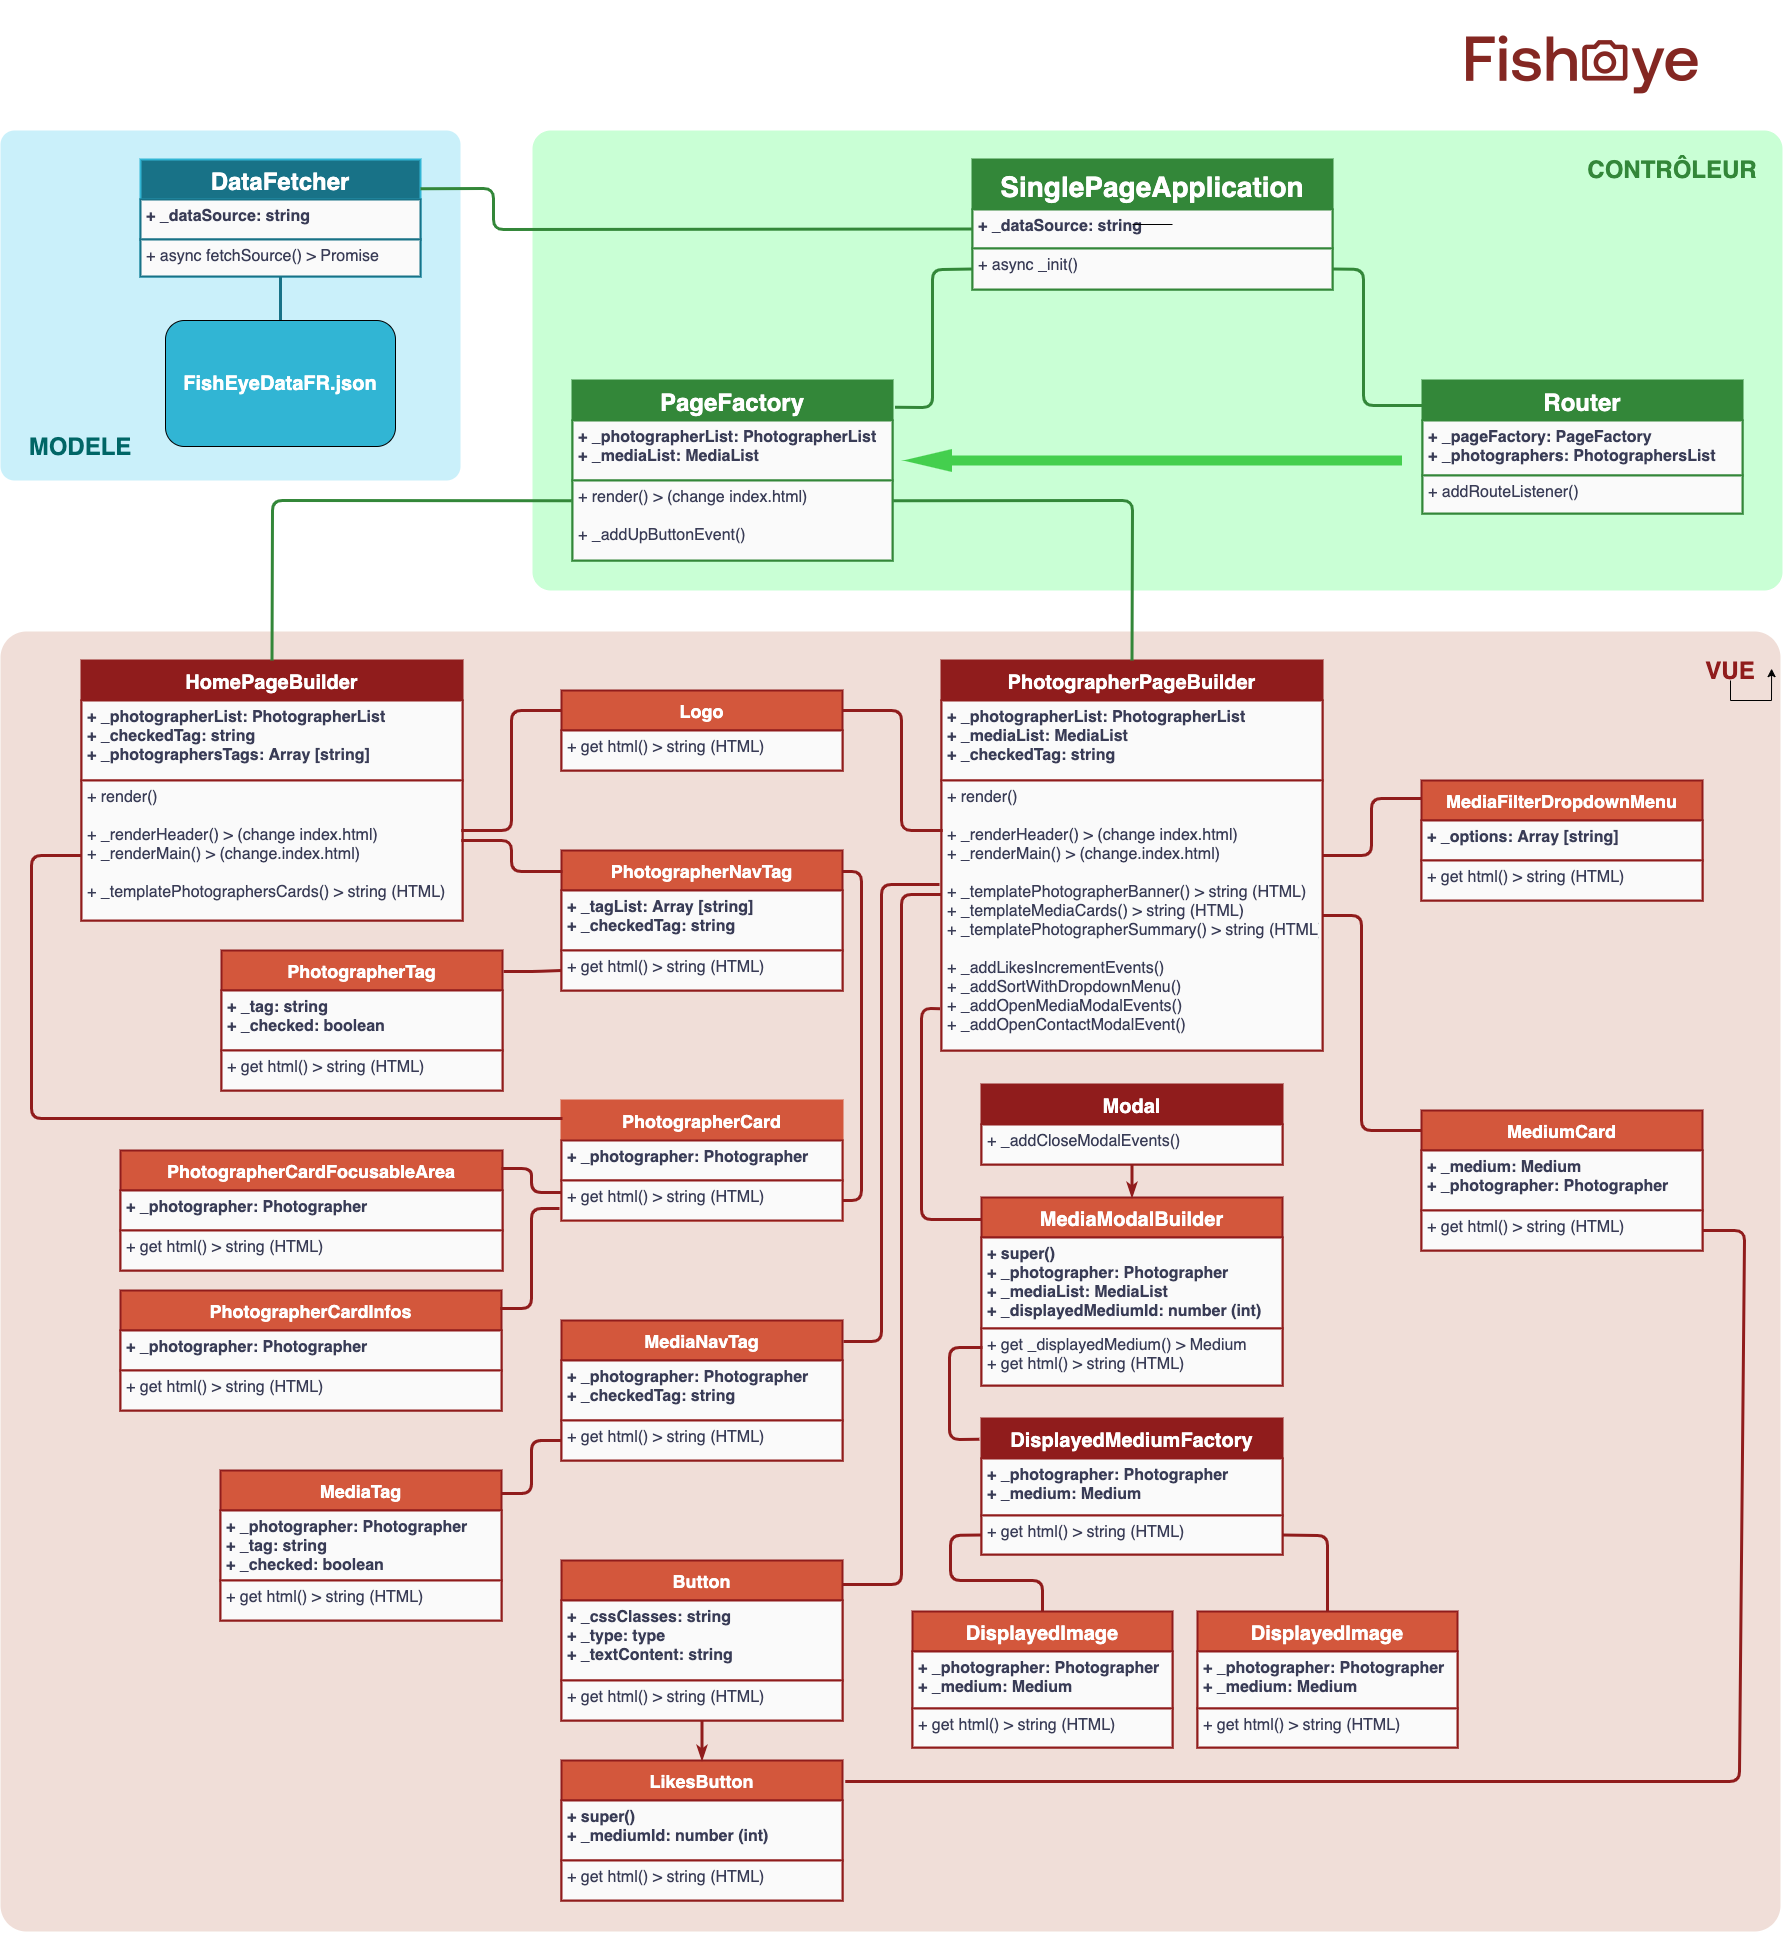
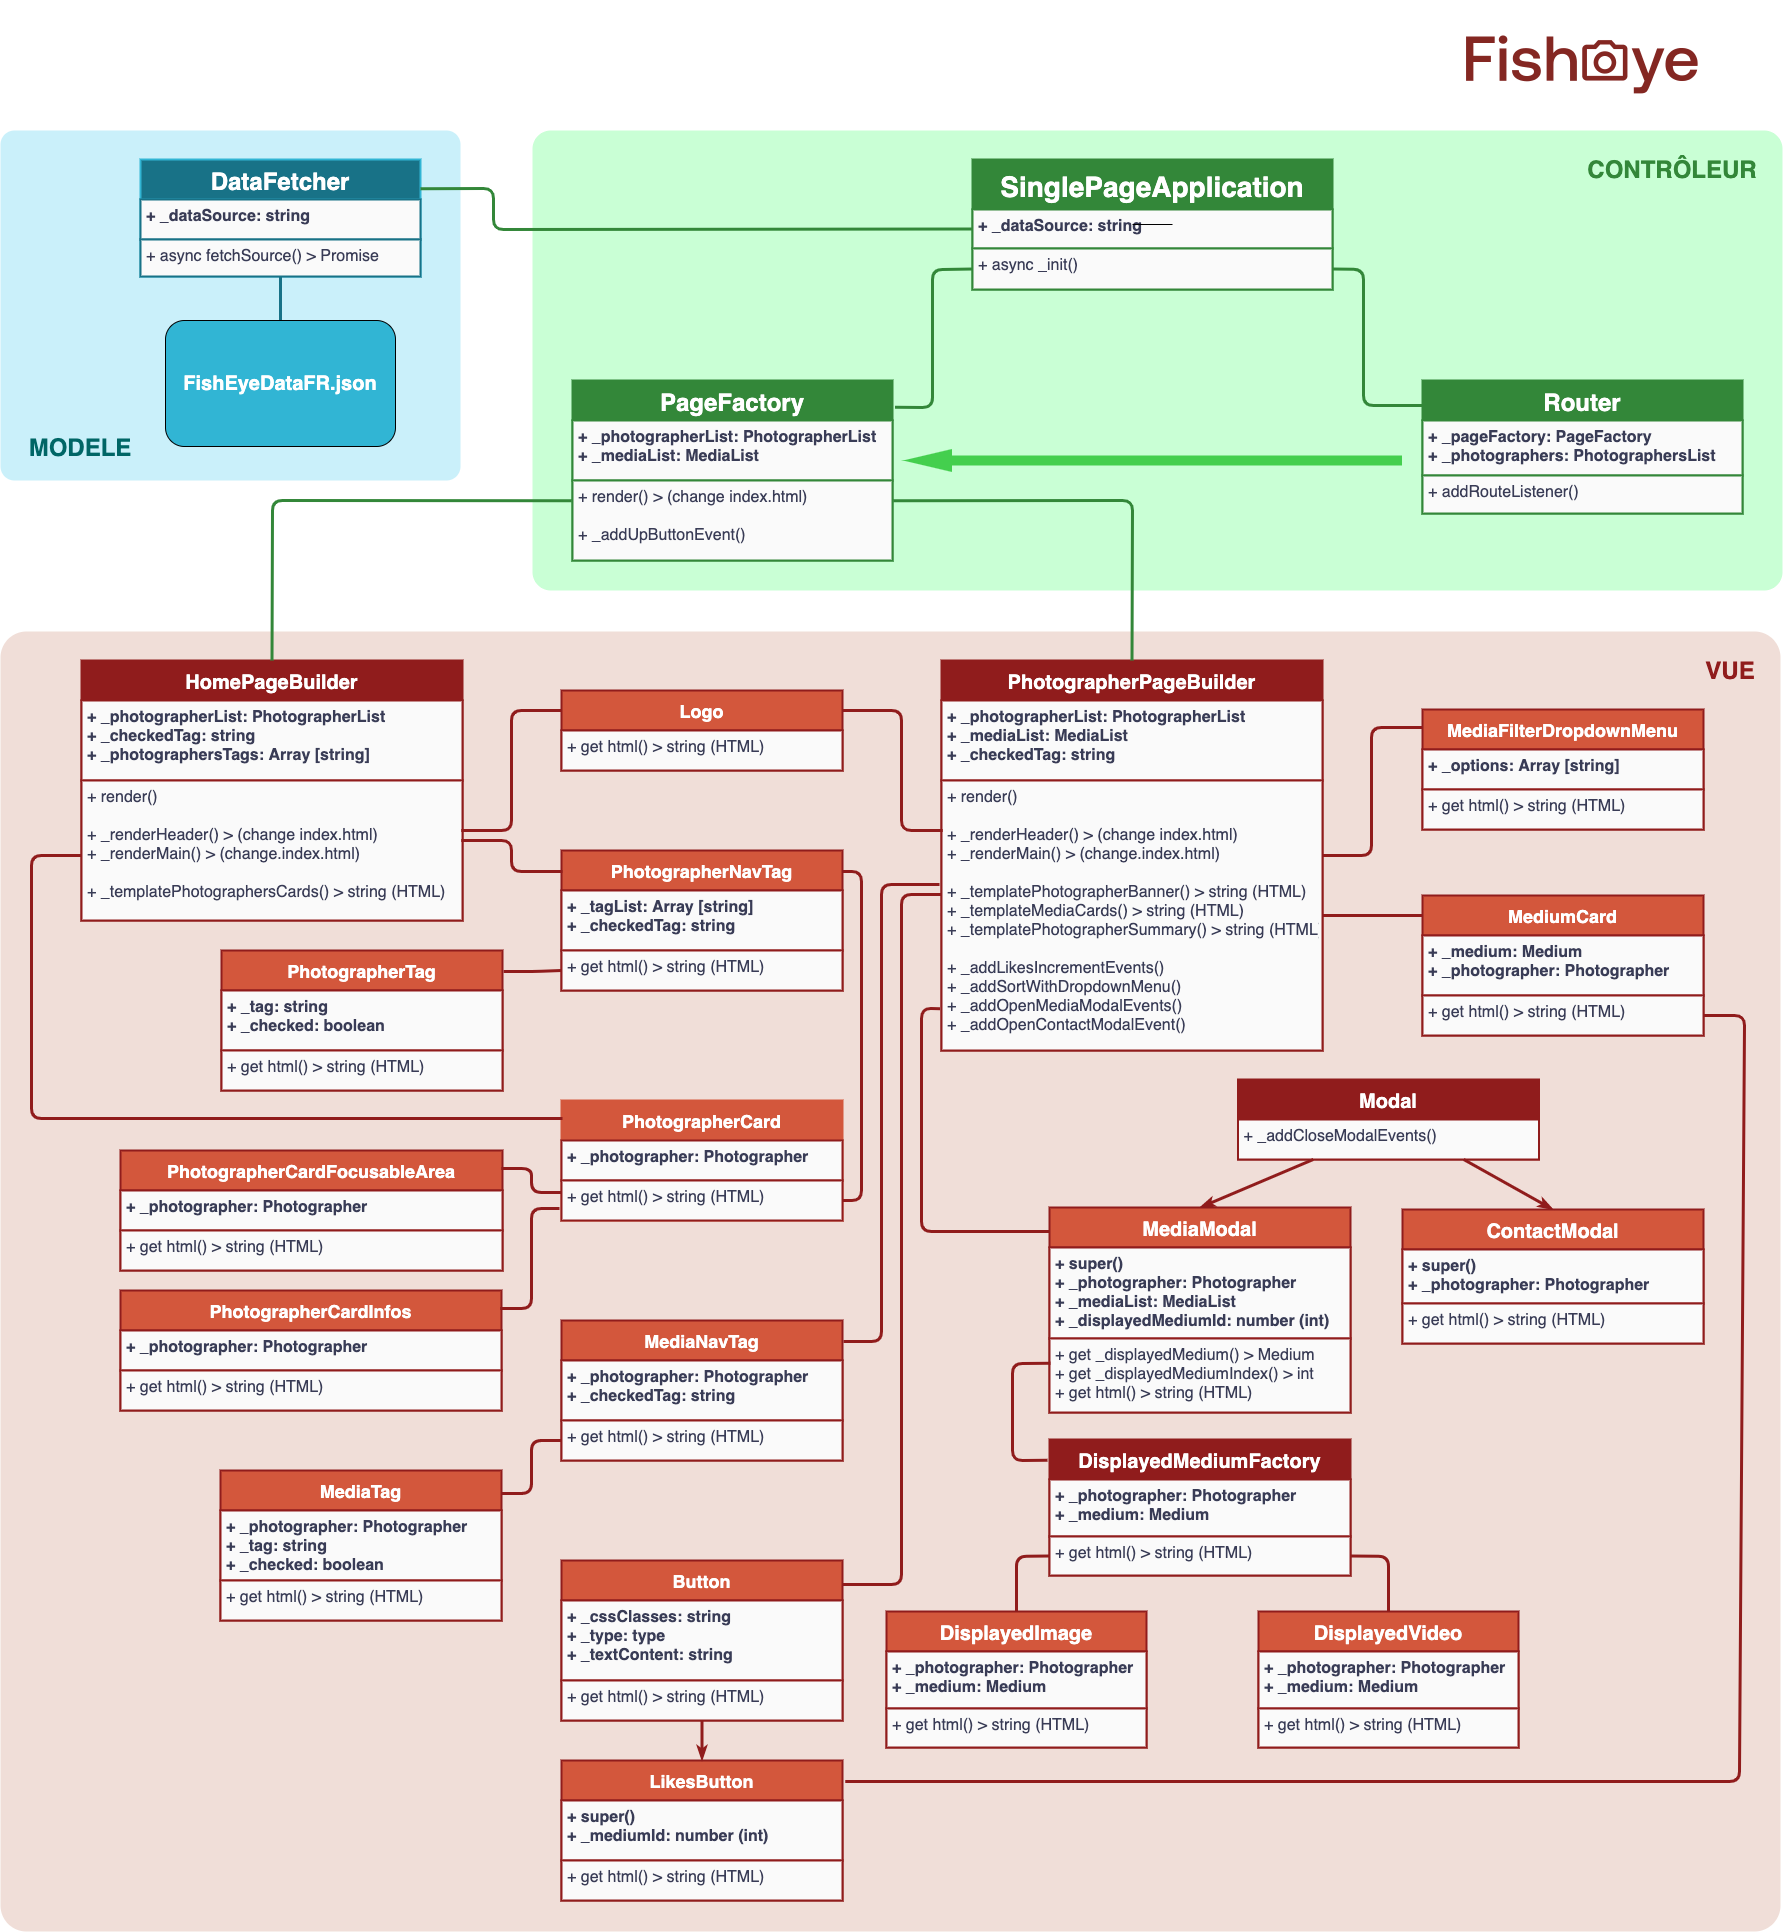
doc: update architecture diagram and README

diff --git a/README.md b/README.md
@@ -13,11 +13,11 @@ Ce projet a été conçu selon une **approche Orientée Objet**, approche caract
 ### Données JSON
 
 - Pour **manipuler les données**, celles-ci sont représentées par des objets `Photographer`et `Medium`, regroupés ensuite dans des `PhotographersList`et `MediaList`.
-- Le projet dispose ainsi d'instances d'`Object`et de `Array` "spécialisées", auxquelles associer les **méthodes concernant ces données** : 
-	- pour les ordonner par nom, date, ...
-	- pour les filtrer (en fonction d'un `id`, d'un `tag`, ...)
-	- pour ajouter une propriété `title` à chaque `Medium` (à partir du fichier lui étant associé)
-	- etc.
+- Le projet dispose ainsi d'instances d'`Object`et de `Array` "spécialisées", auxquelles associer les **méthodes concernant ces données** :
+  - pour les ordonner par nom, date, ...
+  - pour les filtrer (en fonction d'un `id`, d'un `tag`, ...)
+  - pour ajouter une propriété `title` à chaque `Medium` (à partir du fichier lui étant associé)
+  - etc.
 
 ![Diagramme de classes (données)](./doc/data-class-diagram.png)
 
@@ -33,8 +33,5 @@ Ce sont ensuite les actions de l'utilisateur qui redéfinissent le *hash* lu par
 
 - Deux "classes atelier" `HomePageBuilder`et`PhotographerPageBuilder`se chargent de **construire le HTML** de chaque type de page, de **l'injecter dans `index.html`** et d'y **ajouter les `EventListeners`** nécessaires.
 - Ces deux classes ateliers utilisent de leur côté des "classes composants" (`Button`, `PhotographerCard, `...)  chargées chacune de construire le **HTML des composants UI** nécessaires.
-- **TO DO: _Factory construisant le composant photo ou vidéo à inclure dans la modale media, avec les deux "classes atelier" associées_**
-- **TO DO: _classe gérant la modale du formulaire de contact_**
-
 
 ![Diagramme de classes (architecture)](./doc/architecture-class-diagram.png)
